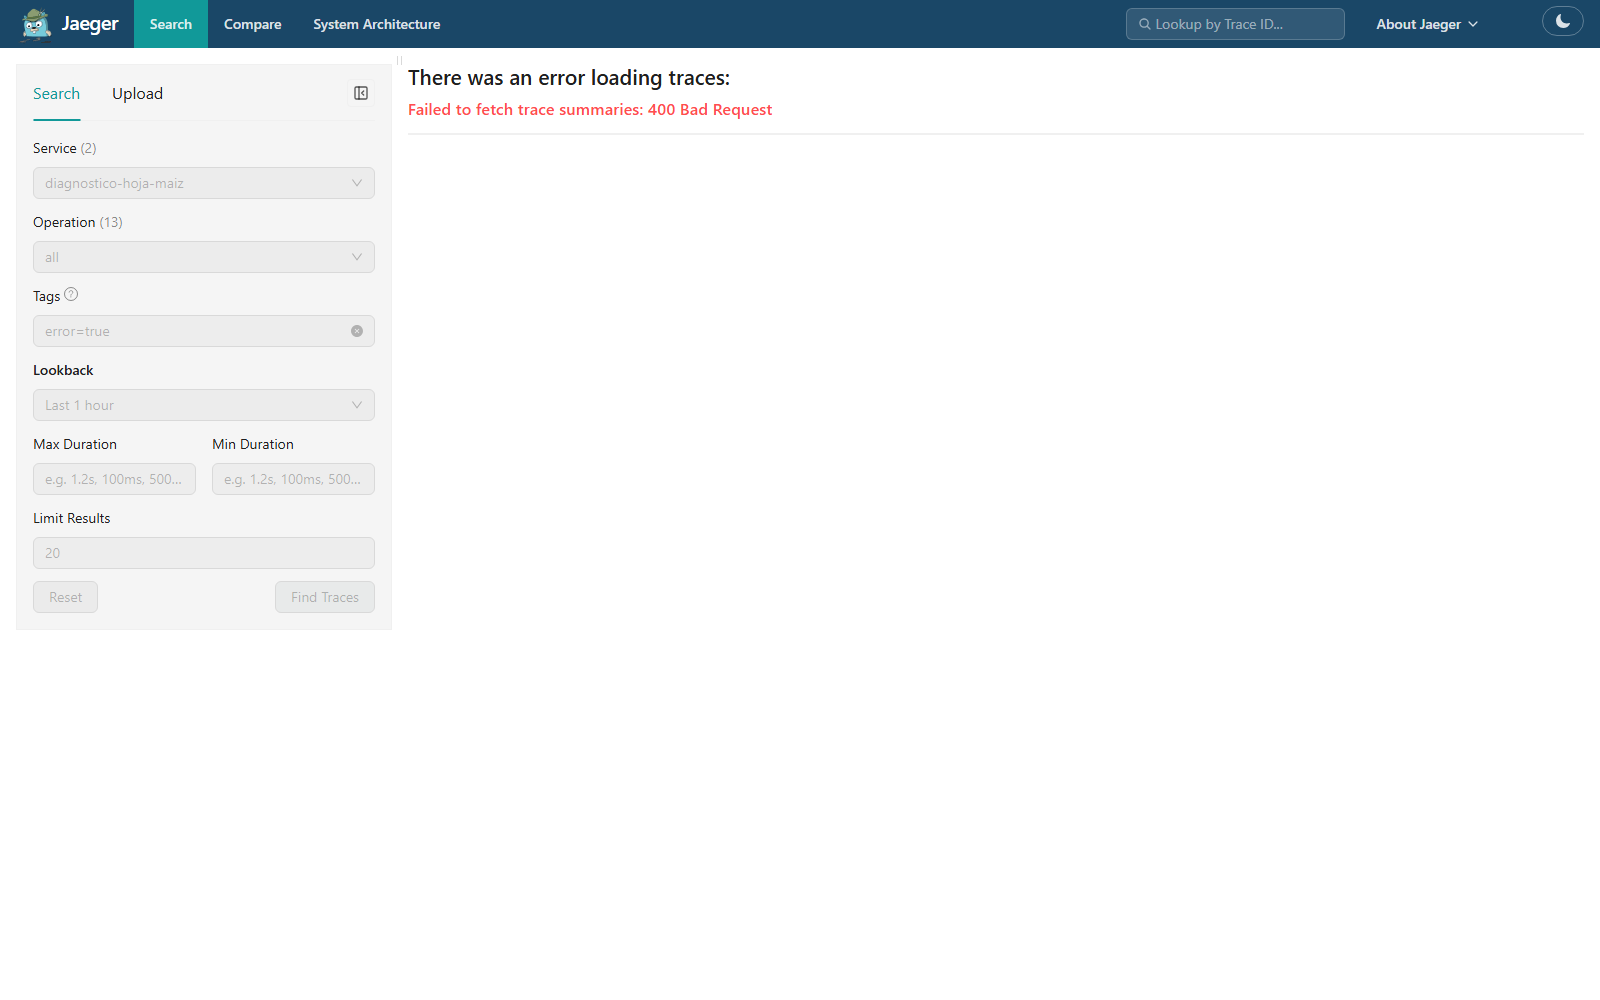
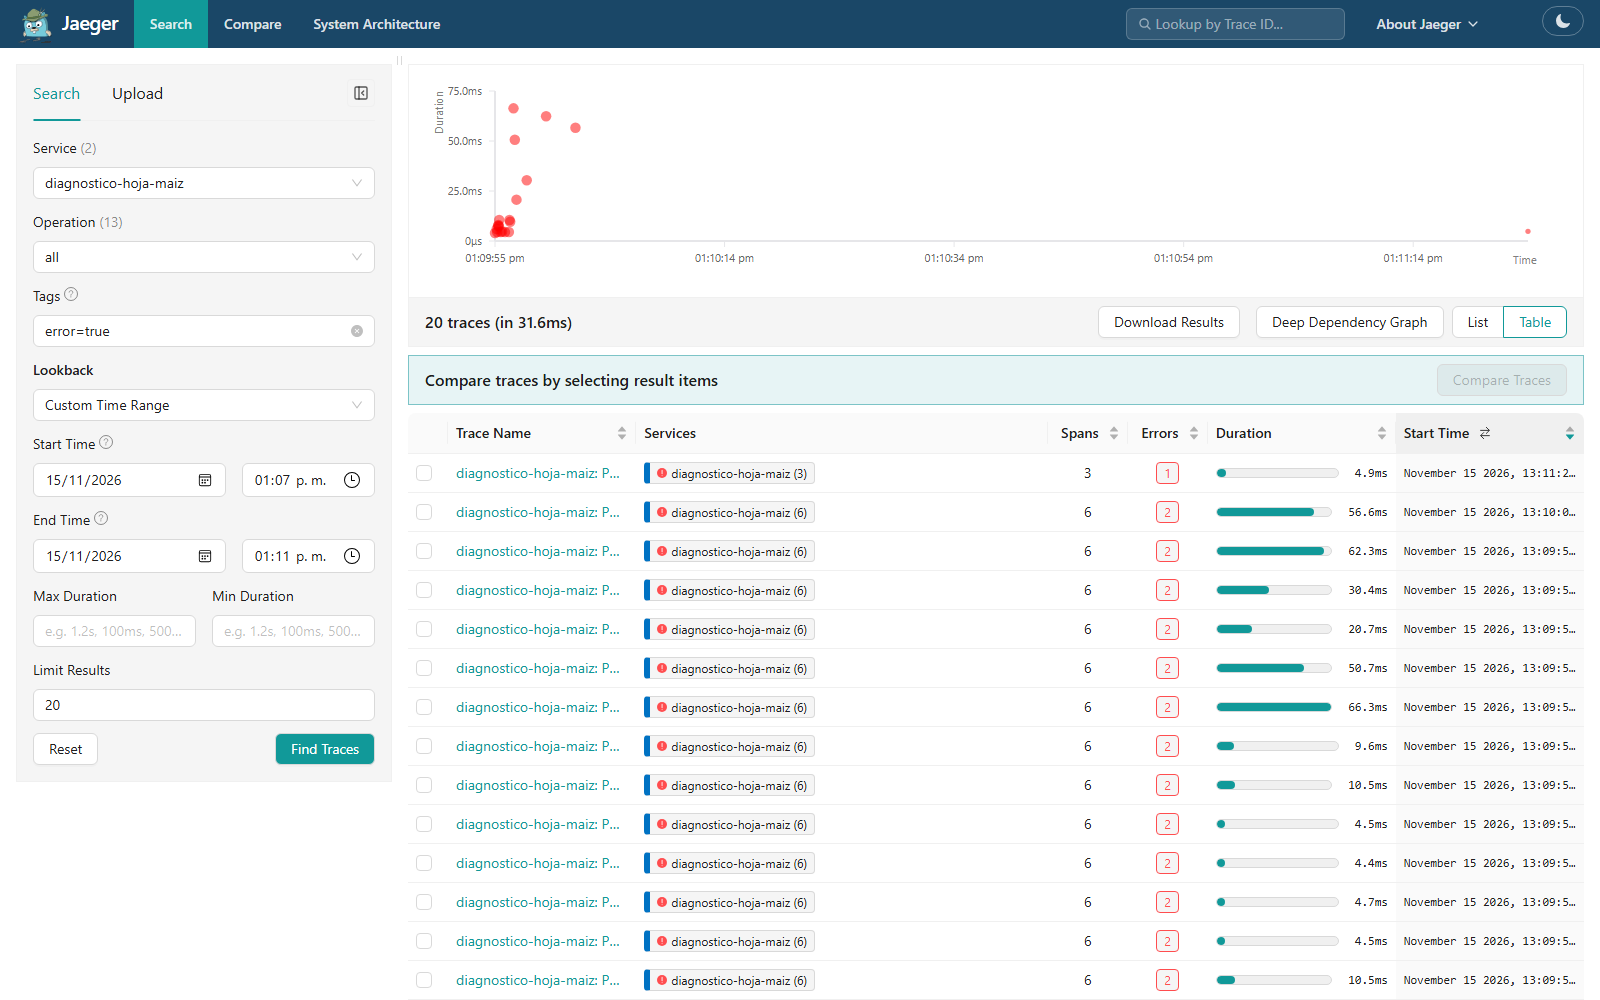
Evidencia: detalle de corridas de MLflow, búsqueda de Jaeger y quema corregidas, línea de tiempo de alertas
- mlflow_detalle(): páginas de detalle del despliegue v1 -> v3 (compuerta y aprobación), del rollback RB-04
  (escalado) y del reentrenamiento v3; la lista de corridas solo mostraba nombres
- Jaeger: la búsqueda de trazas con error usa el rango del INC-03 (con lookback de 1 h la API respondía 400)
- Quema del presupuesto desde Grafana Explore: la interfaz nueva de Prometheus no dibujaba la gráfica sin ventana
- alertas_en_el_tiempo(): cuándo estuvo disparada cada alerta (serie ALERTS) con la inyección de cada incidente

diff --git a/simulacion/capturar_evidencia.py b/simulacion/capturar_evidencia.py
@@ -57,6 +57,23 @@ def mlflow():
             exportar_monitoreo(cliente, exp.experiment_id)
 
 
+DETALLES = {   # corrida de MLflow -> captura de su página de detalle (parámetros, métricas y etiquetas)
+    ("despliegues", "v1 -> v3 (promovida)"): "mlflow_detalle_despliegue_v3.png",
+    ("respuesta-a-incidentes", "RB-04 rollback"): "mlflow_detalle_rb04_rollback.png",
+    ("reentrenamiento", "v1 -> candidata v3"): "mlflow_detalle_reentrenamiento_v3.png",
+}
+
+
+def mlflow_detalle():
+    """La lista de corridas solo muestra nombres; el detalle muestra qué se registra de cada evento."""
+    cliente = MlflowClient(MLFLOW)
+    for (experimento, corrida), archivo in DETALLES.items():
+        exp = cliente.get_experiment_by_name(experimento)
+        run = next((r for r in cliente.search_runs([exp.experiment_id]) if r.info.run_name == corrida), None) if exp else None
+        if run:
+            capturar(f"{MLFLOW}/#/experiments/{exp.experiment_id}/runs/{run.info.run_id}", SALIDA / archivo, 1700, 1500)
+
+
 def recortar_graficas(ruta):
     """De la vista de gráficas (orden alfabético) se queda con el encabezado y las filas de PSI y de la sonda."""
     from PIL import Image
@@ -122,8 +139,12 @@ def trazas_y_logs():
     with open(SIM / "trafico.csv", encoding="utf-8") as f:
         normal = next(r["trace_id"] for r in csv.DictReader(f) if r["codigo"] == "200" and r["trace_id"])
     capturar(f"{JAEGER}/trace/{normal}", SALIDA / "jaeger_traza_normal.png", 1600, 900)
-    capturar(f"{JAEGER}/search?service=diagnostico-hoja-maiz&tags=%7B%22error%22%3A%22true%22%7D&limit=20",
-             SALIDA / "jaeger_busqueda_errores.png", 1600, 1000)
+    us = lambda texto: ms(texto) * 1000  # noqa: E731 - Jaeger usa microsegundos
+    busqueda = urllib.parse.urlencode({"end": us(inc["ventana"]["hasta"]), "limit": 20, "lookback": "custom",
+                                       "service": "diagnostico-hoja-maiz", "start": us(inc["ventana"]["desde"]),
+                                       "tags": json.dumps({"error": "true"})})
+    # con lookback=1h (lo que pone la interfaz por defecto) la búsqueda fallaba con 400; con el rango del INC-03 no
+    capturar(f"{JAEGER}/search?{busqueda}", SALIDA / "jaeger_busqueda_errores.png", 1600, 1000, 25000)
     desde, hasta = ms(inc["t_inyeccion"]) - 30000, ms(inc["t_resuelto"] or inc["ventana"]["hasta"]) + 30000
     panes = {"a": {"datasource": "loki", "queries": [{"refId": "A", "datasource": {"type": "loki", "uid": "loki"},
                                                       "expr": '{service_name="diagnostico-hoja-maiz"} | evento=~"error_interno|modelo_recargado|falla_inyectada"'}],
@@ -136,14 +157,81 @@ def prometheus():
     capturar(f"{PROM}/alerts", SALIDA / "prometheus_reglas.png", 1500, 1800)
     resumen = json.loads((SIM / "resumen.json").read_text(encoding="utf-8"))
     duracion = int((ms(resumen["fin"]) - ms(resumen["inicio"])) / 60000) + 2
-    q = urllib.parse.quote('slo:proporcion_errores:v5m / on(slo) group_left() (1 - slo:objetivo)')
-    capturar(f"{PROM}/query?g0.expr={q}&g0.tab=graph&g0.range_input={duracion}m&g0.end_input="
-             f"{urllib.parse.quote(resumen['fin'][:19].replace('T', ' '))}", SALIDA / "prometheus_quema.png", 1500, 900)
+    del duracion
+    # La interfaz nueva de Prometheus no dibuja la gráfica en Edge sin ventana; la consulta se hace desde Grafana
+    # Explore, que lee el mismo Prometheus
+    panes = {"q": {"datasource": "prometheus", "queries": [
+        {"refId": "A", "datasource": {"type": "prometheus", "uid": "prometheus"}, "legendFormat": "{{slo}}",
+         "expr": 'slo:proporcion_errores:v5m / on(slo) group_left() (1 - slo:objetivo)'}],
+        "range": {"from": str(ms(resumen["inicio"])), "to": str(ms(resumen["fin"]))}}}
+    capturar(f"{GRAFANA}/explore?schemaVersion=1&orgId=1&panes={urllib.parse.quote(json.dumps(panes))}",
+             SALIDA / "prometheus_quema.png", 1700, 1000, 25000)
+    alertas_en_el_tiempo(resumen)
+
+
+SEVERIDAD = {   # paleta de estado (fija): el color repite la severidad que ya va escrita en cada fila
+    "P1": ("#d03b3b", "P1 (página inmediata)"), "P2": ("#ec835a", "P2 (página)"),
+    "P3": ("#fab219", "P3 (ticket)"), "info": ("#898781", "info (solo registro)")}
+
+
+def alertas_en_el_tiempo(resumen):
+    """Cuándo estuvo disparada cada alerta durante la simulación (serie ALERTS de Prometheus), con los incidentes."""
+    import matplotlib.dates as mdates
+    import httpx
+    from matplotlib.patches import Patch
+    fin = datetime.fromisoformat(resumen["fin"].replace("Z", "+00:00")).timestamp() + 120
+    r = httpx.get(f"{PROM}/api/v1/query_range", params={
+        "query": 'ALERTS{alertstate="firing"}', "start": resumen["inicio"], "end": fin, "step": "5s"}).json()
+    tramos = {}
+    for serie in r["data"]["result"]:
+        clave = (serie["metric"]["alertname"], serie["metric"].get("severidad", "info"))
+        tiempos = [float(t) for t, _ in serie["values"]]
+        inicio = previo = tiempos[0]
+        for t in tiempos[1:] + [None]:
+            if t is None or t - previo > 10:
+                tramos.setdefault(clave, []).append((inicio, previo + 5))
+                inicio = t
+            previo = t if t is not None else previo
+    orden = sorted(tramos, key=lambda k: (list(SEVERIDAD).index(k[1]), min(a for a, _ in tramos[k])))
+    zona = datetime.now().astimezone().tzinfo
+    a_fecha = lambda t: datetime.fromtimestamp(t, zona)  # noqa: E731
+    fig, eje = plt.subplots(figsize=(11, 0.42 * len(orden) + 1.6))
+    fig.patch.set_facecolor("#fcfcfb")
+    eje.set_facecolor("#fcfcfb")
+    for fila, (alerta, sev) in enumerate(orden):
+        for a, b in tramos[(alerta, sev)]:
+            eje.barh(fila, (b - a) / 86400, left=mdates.date2num(a_fecha(a)), height=0.5,
+                     color=SEVERIDAD[sev][0], edgecolor="#fcfcfb", linewidth=1)
+    for i, p in enumerate(sorted(SIM.glob("INC-0?.json"))):
+        inc = json.loads(p.read_text(encoding="utf-8"))
+        x = mdates.date2num(a_fecha(ms(inc["t_inyeccion"]) / 1000))
+        eje.axvline(x, color="#898781", lw=1, ls=(0, (3, 3)), zorder=0)
+        # alturas alternadas: el INC-01 y el INC-02 quedaron a un minuto y sus etiquetas se encimaban
+        eje.text(x, -0.75 - 0.55 * (i % 2), inc["id"], fontsize=8, color="#52514e", ha="center", va="bottom")
+    eje.set_yticks(range(len(orden)), [f"{sev} · {alerta}" for alerta, sev in orden], fontsize=8.5, color="#0b0b0b")
+    eje.set_ylim(len(orden) - 0.4, -1.6)
+    eje.xaxis.set_major_locator(mdates.MinuteLocator(byminute=range(0, 60, 5), tz=zona))
+    eje.xaxis.set_major_formatter(mdates.DateFormatter("%H:%M", tz=zona))
+    eje.tick_params(axis="x", labelsize=8, colors="#52514e")
+    eje.tick_params(axis="y", length=0)
+    eje.grid(axis="x", color="#e1e0d9", lw=0.6)
+    eje.set_axisbelow(True)
+    for lado in ("top", "right", "left"):
+        eje.spines[lado].set_visible(False)
+    eje.spines["bottom"].set_color("#c3c2b7")
+    eje.set_xlabel("hora local (líneas punteadas: inyección de cada incidente)", fontsize=8, color="#52514e")
+    eje.legend(handles=[Patch(color=c, label=t) for c, t in SEVERIDAD.values()], fontsize=8, ncol=4,
+               loc="upper center", bbox_to_anchor=(0.5, -0.16), frameon=False)
+    fig.suptitle("Alertas disparadas en Prometheus durante la simulación", fontsize=11, color="#0b0b0b", x=0.02,
+                 ha="left")
+    fig.tight_layout()
+    fig.savefig(SALIDA / "prometheus_alertas_en_el_tiempo.png", dpi=170, facecolor=fig.get_facecolor())
+    plt.close(fig)
 
 
 def main():
     SALIDA.mkdir(parents=True, exist_ok=True)
-    for paso in (mlflow, grafana, trazas_y_logs, prometheus):
+    for paso in (mlflow, mlflow_detalle, grafana, trazas_y_logs, prometheus):
         try:
             paso()
             print(f"listo: {paso.__name__}")
